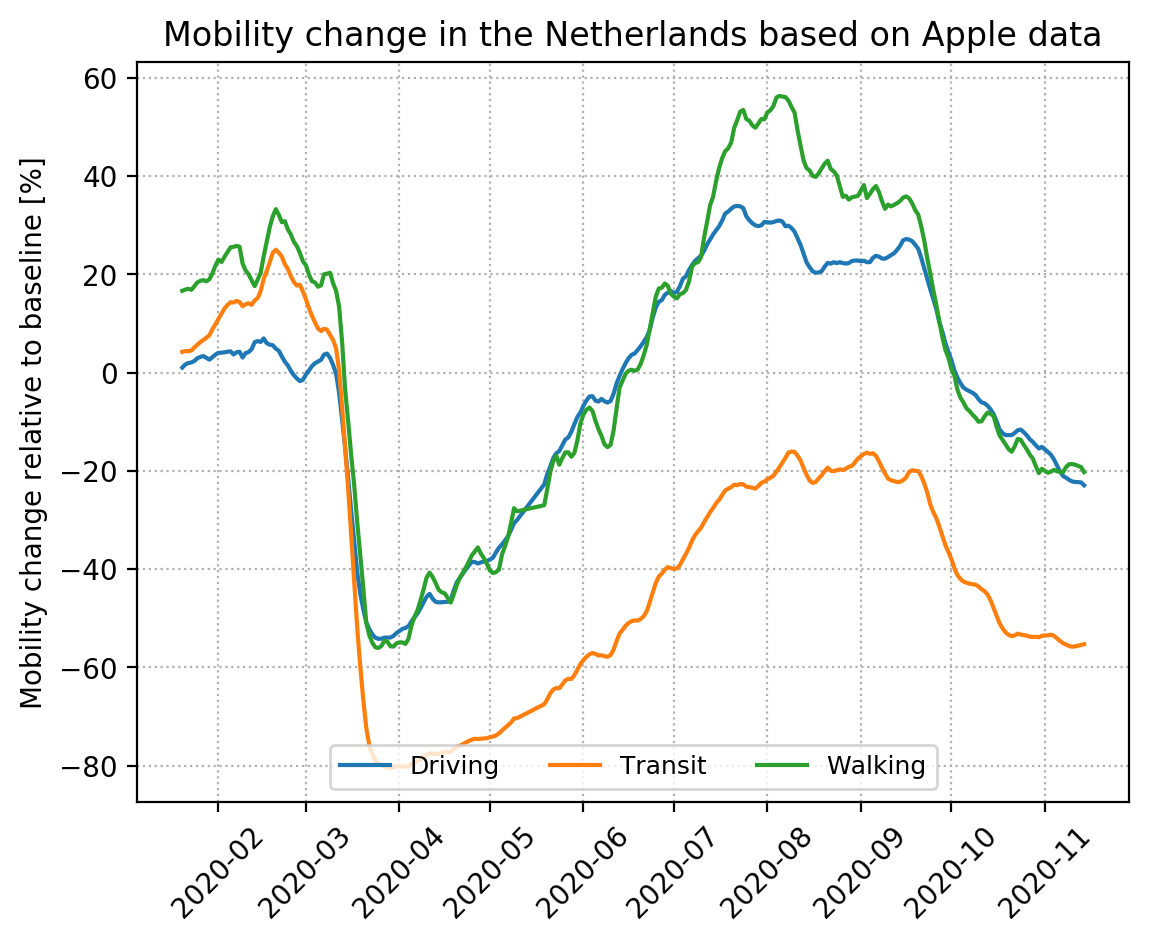
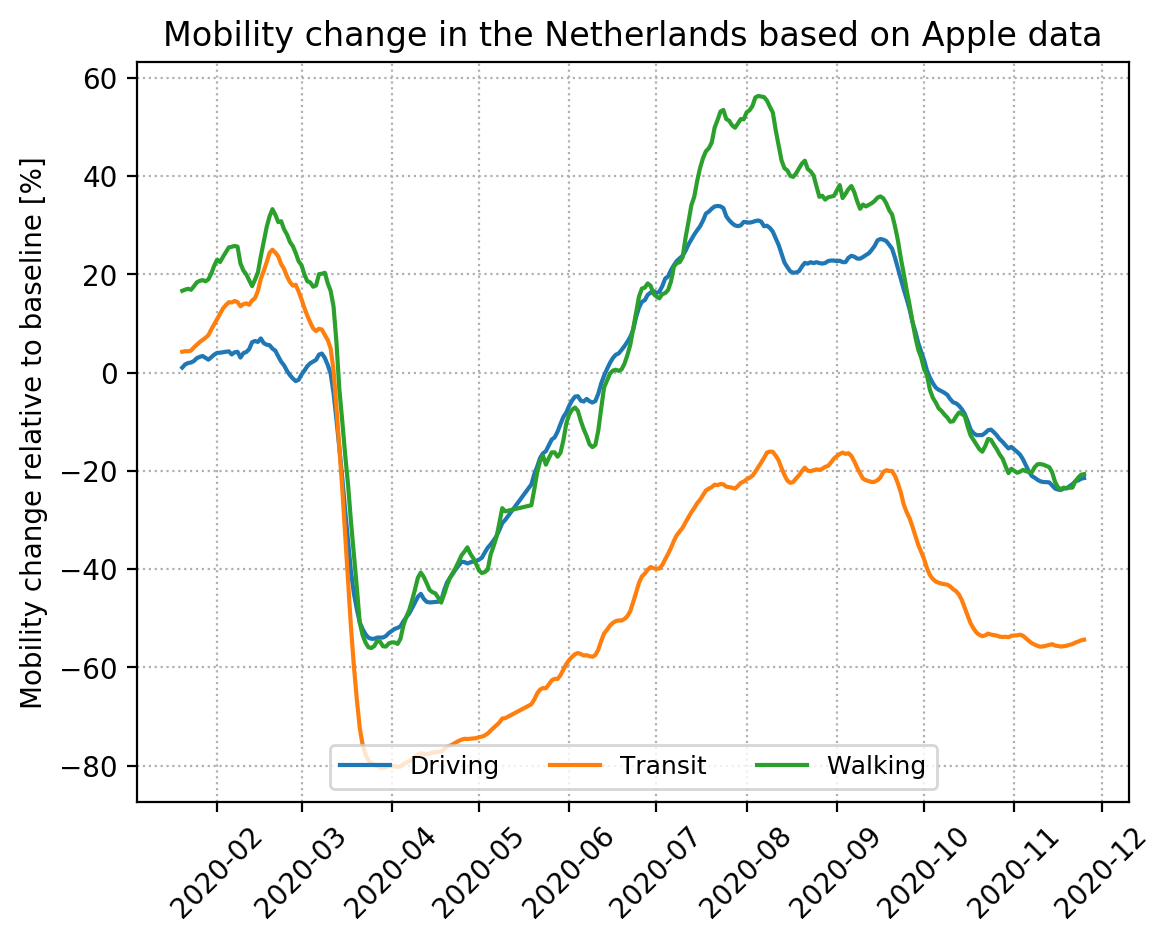
Updated plots with new data

diff --git a/model_coronavirus_supression.py b/model_coronavirus_supression.py
@@ -168,7 +168,7 @@ def load_government_response_data():
 
 	return df_response
 
-def load_mobility_data(smooth = False, smoothsize = 7, apple_mobility_url_base = 'https://covid19-static.cdn-apple.com/covid19-mobility-data/2021HotfixDev21/v3/en-us/applemobilitytrends-'):
+def load_mobility_data(smooth = False, smoothsize = 7, apple_mobility_url_base = 'https://covid19-static.cdn-apple.com/covid19-mobility-data/2021HotfixDev25/v3/en-us/applemobilitytrends-'):
 	"""
 	Load Apple and Google mobility data. Downloadable from:
 
@@ -1705,7 +1705,8 @@ def estimate_recent_prevalence(enddate_train = '2020-11-01', smoothsize = 5):
 	ln2 = ax1.plot(df_prevalence_pred.index, df_prevalence_pred['Prev_pred'], label = f'Linear prediction ($R^2 = {r_squared:0.03f}$)', color = betterorange)
 
 	#also plot government response
-	ln3 = ax2.plot(df_response.index, df_response['StringencyIndex'], label = 'Stringency index', color = betterblack)
+	df_response_plot = df_response.loc[df_response.index <= df_prevalence_pred.index[-1]]
+	ln3 = ax2.plot(df_response_plot.index, df_response_plot['StringencyIndex'], label = 'Stringency index', color = betterblack)
 
 	ax1.grid(linestyle = ':')
 
@@ -1736,24 +1737,21 @@ def estimate_recent_prevalence(enddate_train = '2020-11-01', smoothsize = 5):
 def main():
 	# government_response_results_simple()
 
-	# plot_superspreader_events()
-
-	# estimate_recent_R(enddate_train = '2020-10-28')
-
-	# estimate_recent_prevalence(enddate_train = '2020-11-01')
-
-	# plot_prevalence_R()
-
-	# plot_mobility()
-
-	# plot_daily_results()
-
-	plot_sewage()
-
 	# plot_hospitalization()
 
 	# stringency_R_correlation()
 
+	# plot_superspreader_events()
+
+	# estimate_recent_R(enddate_train = '2020-10-28')
+
+	estimate_recent_prevalence(enddate_train = '2020-11-01')
+
+	# plot_prevalence_R()
+
+	# plot_mobility()
+	# plot_daily_results()
+	# plot_sewage()
 	# plot_individual_data()
 
 if __name__ == '__main__':

diff --git a/README.md b/README.md
@@ -6,12 +6,11 @@
 ### Data sources
 
 #### RIVM data
-Number of contagious people (prevalence): [link](https://data.rivm.nl/covid-19/COVID-19_prevalentie.json)
-Number of positively tested people in the Netherlands, updated each day at 10:00 CEST: [link](https://data.rivm.nl/covid-19/COVID-19_aantallen_gemeente_per_dag.csv)
-Each case of positive test, with first day of illness, age etc: [link](https://data.rivm.nl/geonetwork/srv/dut/catalog.search#/metadata/2c4357c8-76e4-4662-9574-1deb8a73f724)
-Reproductive number: [link](https://data.rivm.nl/covid-19/COVID-19_reproductiegetal.json)
-
-More raw data: [link](https://coronadashboard.rijksoverheid.nl/verantwoording)
+- Number of contagious people (prevalence): [link](https://data.rivm.nl/covid-19/COVID-19_prevalentie.json)
+- Number of positively tested people in the Netherlands, updated each day at 10:00 CEST: [link](https://data.rivm.nl/covid-19/COVID-19_aantallen_gemeente_per_dag.csv)
+- Each case of positive test, with first day of illness, age etc: [link](https://data.rivm.nl/geonetwork/srv/dut/catalog.search#/metadata/2c4357c8-76e4-4662-9574-1deb8a73f724)
+- Reproductive number: [link](https://data.rivm.nl/covid-19/COVID-19_reproductiegetal.json)
+- More raw data: [link](https://coronadashboard.rijksoverheid.nl/verantwoording)
 
 Weekly update [link](https://www.rivm.nl/coronavirus-covid-19/actueel) with:
 - Number of tests performed per week
@@ -25,7 +24,7 @@ Predictions: [link](https://covid19.healthdata.org/netherlands)
 NICE intensive care data: [link](https://www.databronnencovid19.nl/Bron?naam=Nationale-Intensive-Care-Evaluatie)
 
 Corona Locator, with a plethora of data: [link](https://bddataplan.nl/corona/)
-Up to date clusters: [link](https://coronalocator.knack.com/corona-locator#cluster-meldingen/?view_670_per_page=5000&view_670_page=1&view_641_0_filters=%5B%7B%22value%22%3A%22%22%2C%22text%22%3A%22Alles%22%2C%22operator%22%3A%22is%20not%20blank%22%2C%22field%22%3A%22field_563%22%7D%5D&view_641_1_filters=%5B%7B%22value%22%3A%22%22%2C%22text%22%3A%22Alle%22%2C%22operator%22%3A%22is%20not%20blank%22%2C%22field%22%3A%22field_563%22%7D%5D)
+- Up to date clusters: [link](https://coronalocator.knack.com/corona-locator#cluster-meldingen/?view_670_per_page=5000&view_670_page=1&view_641_0_filters=%5B%7B%22value%22%3A%22%22%2C%22text%22%3A%22Alles%22%2C%22operator%22%3A%22is%20not%20blank%22%2C%22field%22%3A%22field_563%22%7D%5D&view_641_1_filters=%5B%7B%22value%22%3A%22%22%2C%22text%22%3A%22Alle%22%2C%22operator%22%3A%22is%20not%20blank%22%2C%22field%22%3A%22field_563%22%7D%5D)
 
 #### Other international data
 
